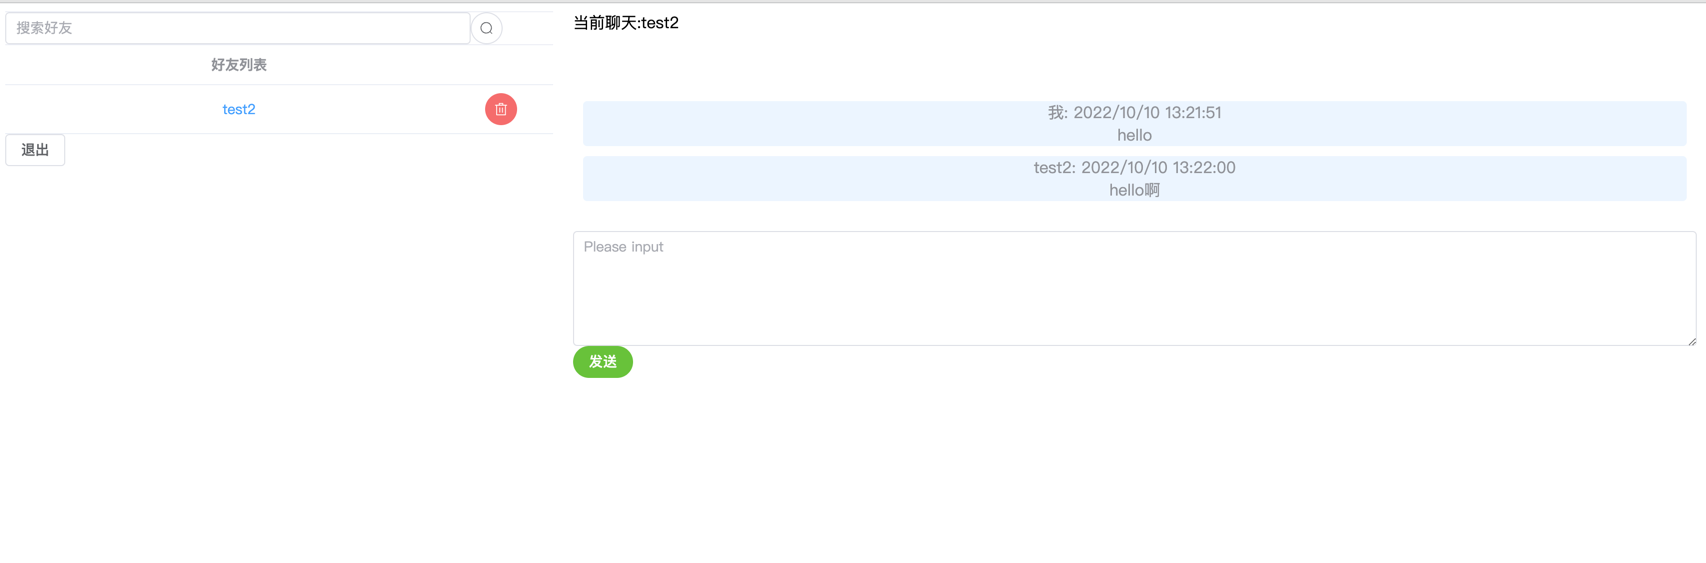
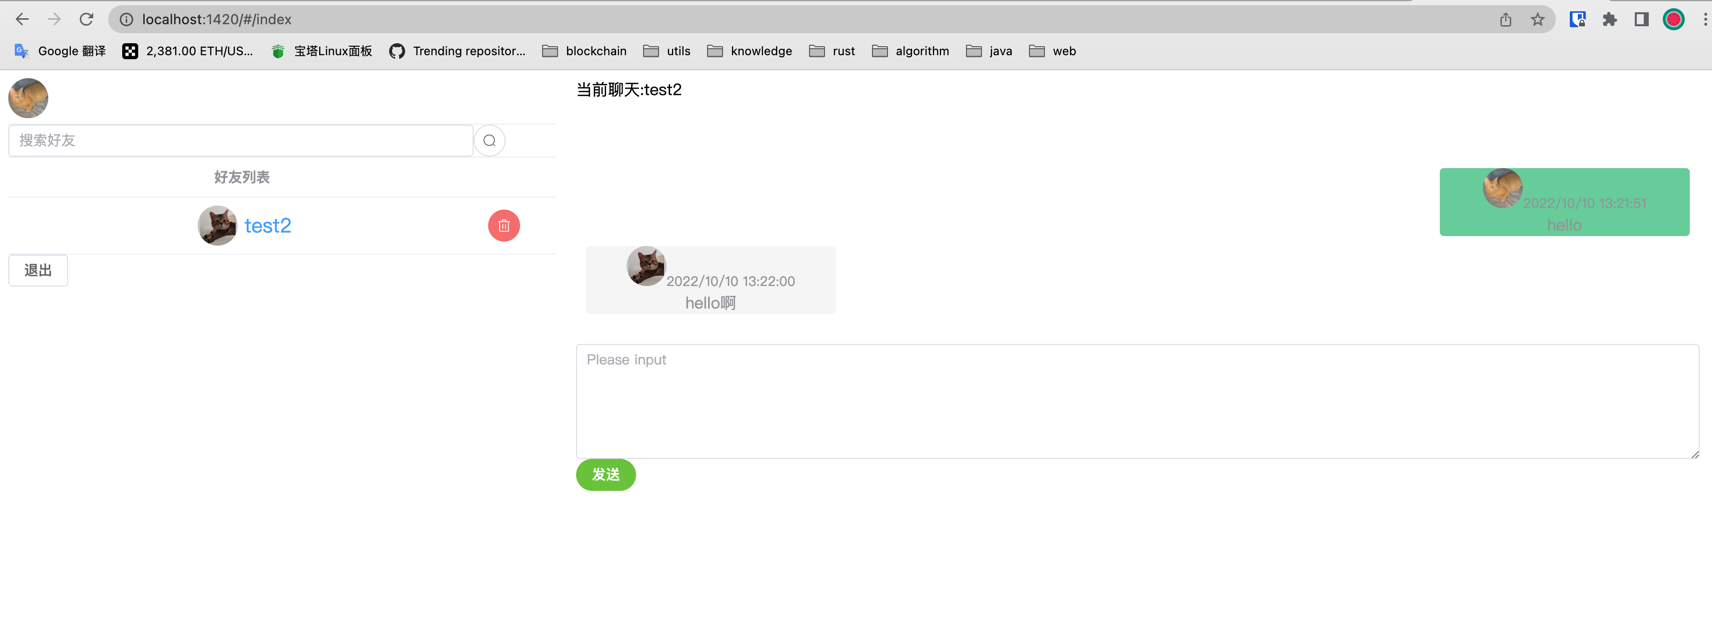
update

diff --git a/README.md b/README.md
@@ -21,7 +21,8 @@ go + tauri + vue.js 做的一款通信软件,基于websocket实现即时聊天
 ## 目前功能
 
 * 登录/注册
-* 搜索/添加/删除好友
+* 展示/更换 头像
+* 搜索/添加/删除 好友
 * 单聊/聊天历史
 
 ## 后端技术
@@ -80,8 +81,6 @@ npm run "tauri build" / cargo tauri build [#可选参数：--debug]
     ```
 
 ## 截图
-
-本身从没做过前端，所以界面略丑～～
 
 ### app
 
